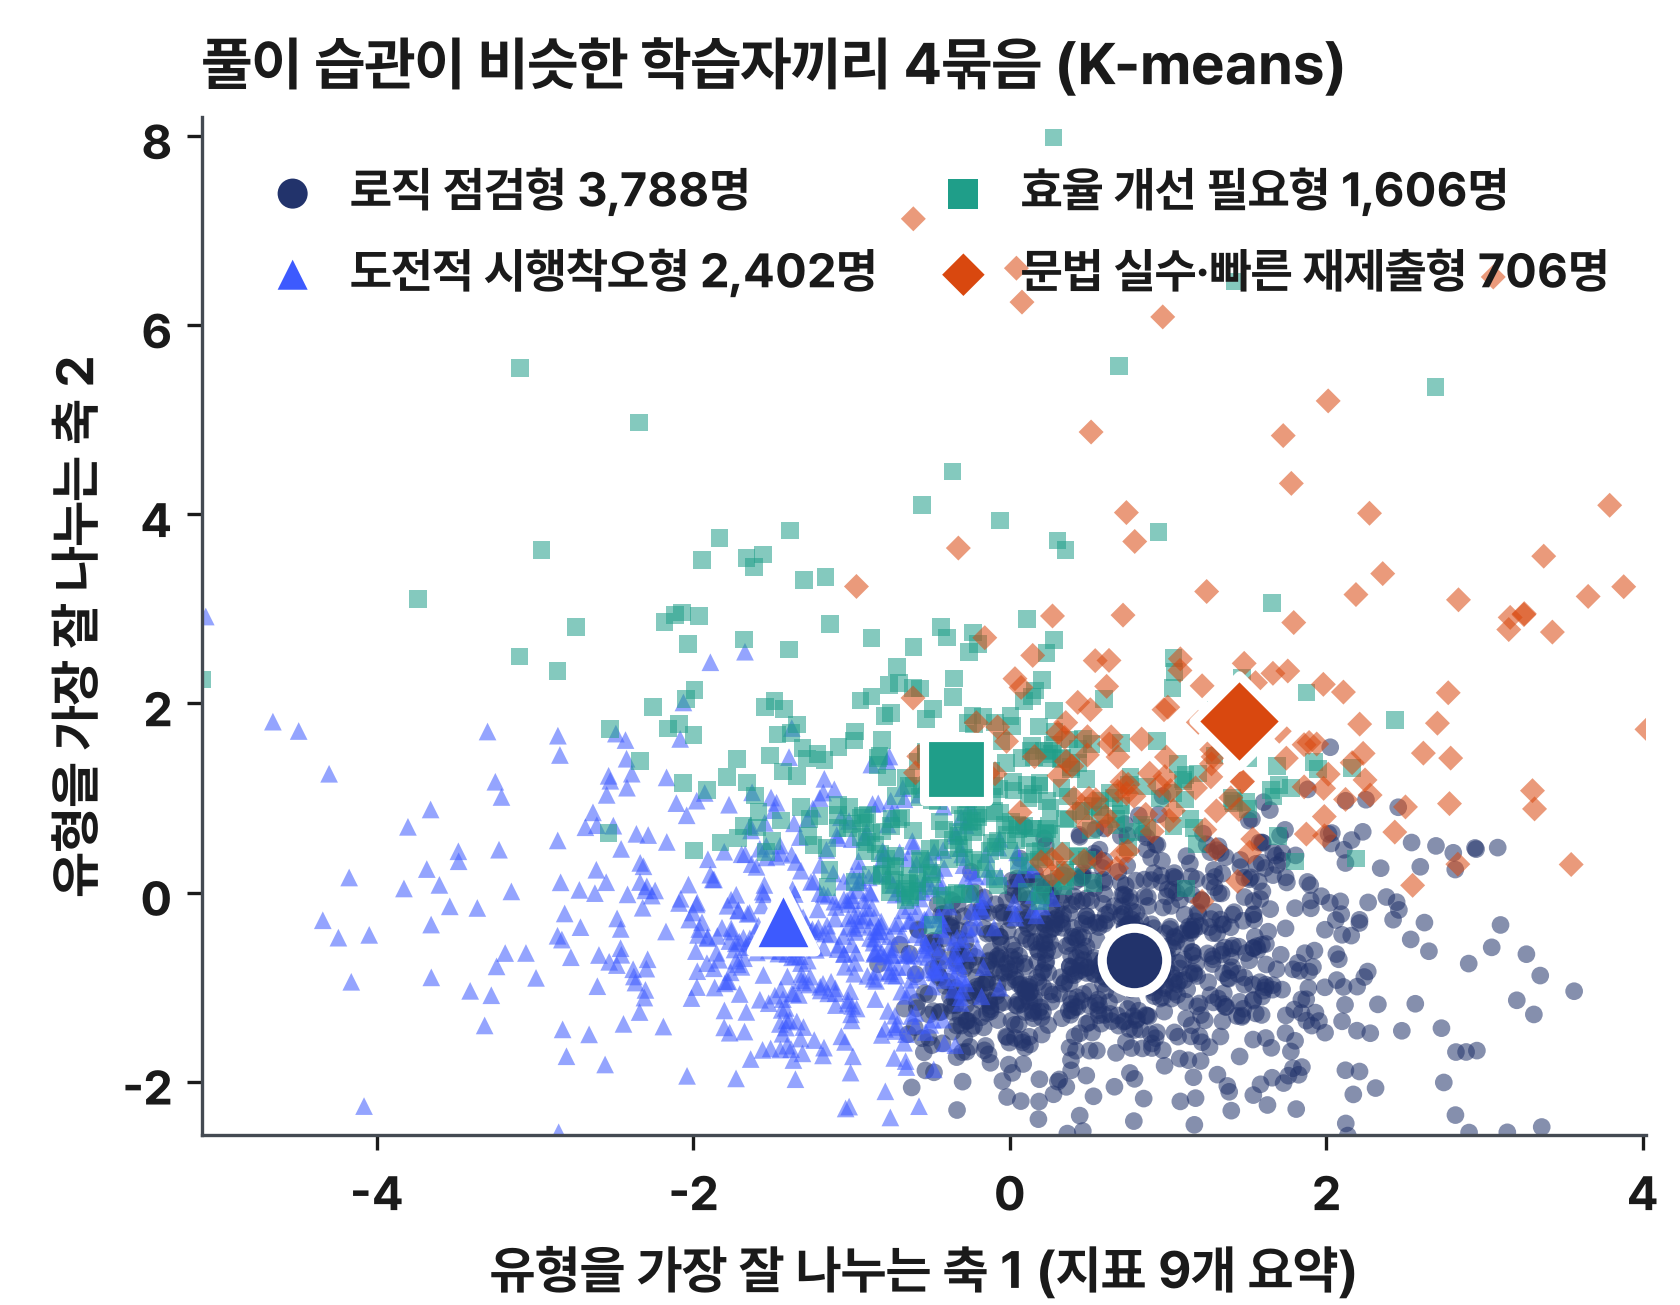
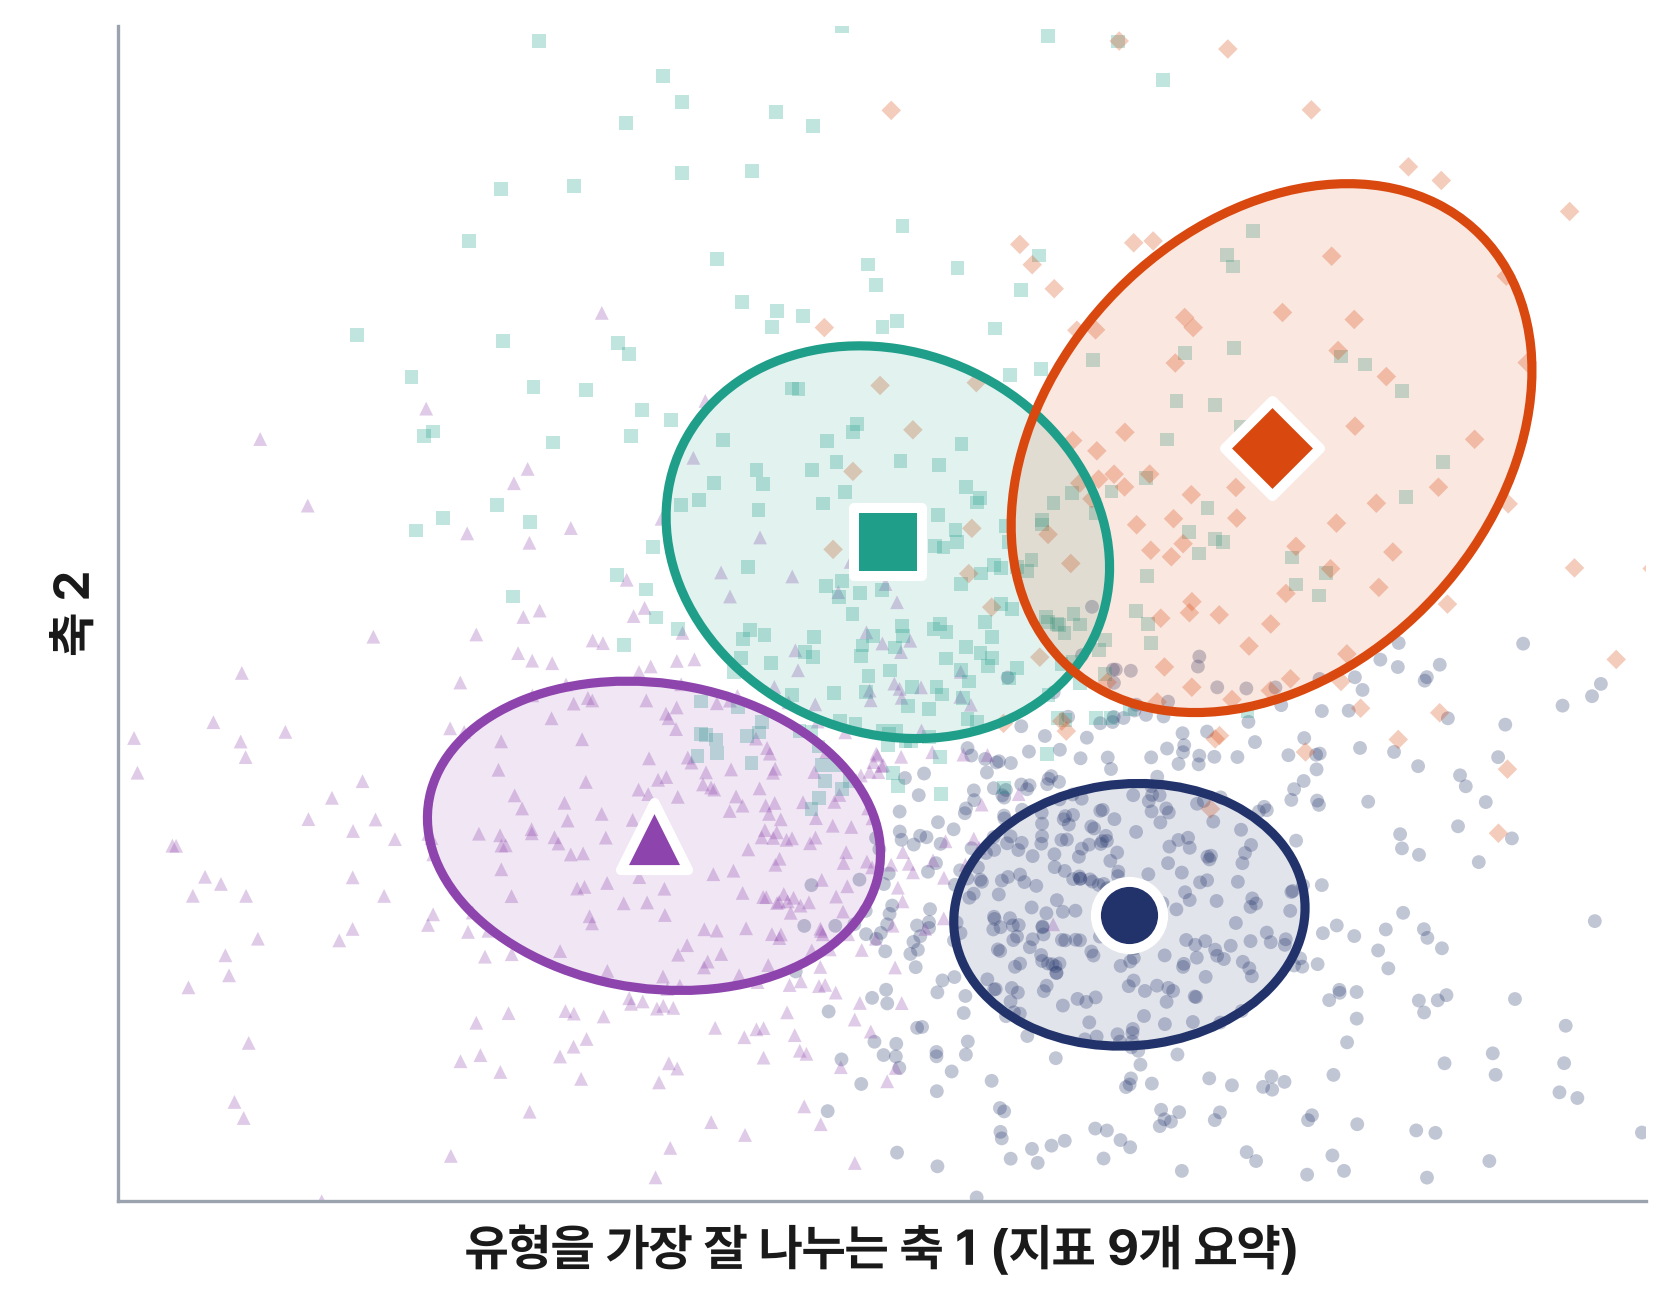
K-means 그래프 깔끔하게: 옅은 점 + 유형별 범위(타원) + 중심, 4색 구분
- 범례·눈금 숫자 빼고(슬라이드 오른쪽 설명과 중복) 학습자 점은 1,200명만 옅게
- 유형마다 학습자가 모인 범위를 표준편차 1배 타원으로 표시, 중심은 큰 도형
- 남색·파랑이 비슷해 도전적 시행착오형을 보라(#8E44AD)로 바꿈
- README 그림 5 설명 수정

diff --git a/make_figures.py b/make_figures.py
@@ -112,23 +112,25 @@ ev, V = np.linalg.eig(np.linalg.solve(Sw, Sb)); V = V[:, np.argsort(-ev.real)[:2
 P = (Z - mu) @ V
 # 가장 가까운 군집 중심 = 저장된 유형 번호인지 확인 (그림이 실제 K-means 결과와 같은지)
 C = np.array(S["학습유형"]["군집_중심"]); assert (((Z[:, None] - C[None]) ** 2).sum(-1).argmin(1) + 1 == y).all()
-DORANGE = "#D9480F"
-sty = {2: ("o", NAVY), 4: ("^", BLUE), 1: ("s", "#1F9E89"), 3: ("D", DORANGE)}   # 로직 점검형 ● · 도전적 시행착오형 ▲ · 효율 개선 필요형 ■ · 문법 실수·빠른 재제출형 ◆
-rng = np.random.default_rng(42); idx = rng.choice(len(X), size=min(2000, len(X)), replace=False)
+DORANGE, PURPLE = "#D9480F", "#8E44AD"
+# 로직 점검형 ● 남색 · 도전적 시행착오형 ▲ 보라 · 효율 개선 필요형 ■ 청록 · 문법 실수·빠른 재제출형 ◆ 주황 (서로 잘 구별되는 4색)
+sty = {2: ("o", NAVY), 4: ("^", PURPLE), 1: ("s", "#1F9E89"), 3: ("D", DORANGE)}
+rng = np.random.default_rng(42); idx = rng.choice(len(X), size=min(1200, len(X)), replace=False)
 fig, ax = plt.subplots(figsize=(5.6, 4.35))
-for k in [2, 4, 1, 3]:
+for k in [2, 4, 1, 3]:                                    # 배경: 학습자 점은 작고 옅게
     m = y[idx] == k; mk, col = sty[k]
-    ax.scatter(P[idx][m, 0], P[idx][m, 1], s=18, marker=mk, alpha=0.55, color=col, edgecolors="none",
-               label=f"{names[str(k - 1)]} {(y == k).sum():,}명")
-for k in range(1, 5):
-    mk, col = sty[k]; ax.scatter(*P[y == k].mean(0), s=240, marker=mk, color=col, edgecolors="white", linewidths=2.2, zorder=5)
-ax.set_xlim(np.percentile(P[:, 0], 0.3), np.percentile(P[:, 0], 99.7))
-lo, hi = np.percentile(P[:, 1], 0.3), np.percentile(P[:, 1], 99.7); ax.set_ylim(lo, hi + (hi - lo) * 0.32)
-ax.set_xlabel("유형을 가장 잘 나누는 축 1 (지표 9개 요약)", fontsize=12.5); ax.set_ylabel("유형을 가장 잘 나누는 축 2", fontsize=12.5)
-ax.tick_params(labelsize=11.5)
-lg = ax.legend(frameon=False, fontsize=11.5, loc="upper left", ncol=2, markerscale=1.7, handletextpad=0.2, columnspacing=0.8)
-for h in lg.legend_handles: h.set_alpha(1)
-ax.set_title("풀이 습관이 비슷한 학습자끼리 4묶음 (K-means)", fontsize=14, loc="left", pad=8)
-fig.subplots_adjust(left=0.12, right=0.98, top=0.91, bottom=0.13); fig.savefig(OUT / "fig5_학습유형_Kmeans.png"); plt.close(fig)
+    ax.scatter(P[idx][m, 0], P[idx][m, 1], s=11, marker=mk, alpha=0.28, color=col, edgecolors="none", zorder=1)
+from matplotlib.patches import Ellipse
+for k in [2, 4, 1, 3]:                                    # 유형마다 학습자 대부분이 모인 범위(표준편차 1배 타원) + 중심
+    mk, col = sty[k]; Q = P[y == k]; c = Q.mean(0); cov = np.cov(Q.T)
+    val, vec = np.linalg.eigh(cov); ang = np.degrees(np.arctan2(vec[1, 1], vec[0, 1]))
+    ax.add_patch(Ellipse(c, 2 * np.sqrt(val[1]), 2 * np.sqrt(val[0]), angle=ang, facecolor=col, alpha=0.13, edgecolor="none", zorder=2))
+    ax.add_patch(Ellipse(c, 2 * np.sqrt(val[1]), 2 * np.sqrt(val[0]), angle=ang, facecolor="none", edgecolor=col, lw=2.2, zorder=3))
+    ax.scatter(*c, s=260, marker=mk, color=col, edgecolors="white", linewidths=2.4, zorder=5)
+ax.set_xlim(np.percentile(P[:, 0], 1), np.percentile(P[:, 0], 99)); ax.set_ylim(np.percentile(P[:, 1], 1), np.percentile(P[:, 1], 99))
+ax.set_xticks([]); ax.set_yticks([])
+for sp in ("left", "bottom"): ax.spines[sp].set_color("#9AA3AE")
+ax.set_xlabel("유형을 가장 잘 나누는 축 1 (지표 9개 요약)", fontsize=12); ax.set_ylabel("축 2", fontsize=12)
+fig.subplots_adjust(left=0.07, right=0.98, top=0.98, bottom=0.08); fig.savefig(OUT / "fig5_학습유형_Kmeans.png"); plt.close(fig)
 check["그림5 유형 인원"] = {names[str(k - 1)]: int((X["유형번호"] == k).sum()) for k in range(1, 5)}
 for k, v in check.items(): print(k, v)

diff --git a/README.md b/README.md
@@ -28,7 +28,7 @@ algofit_figures/
 | fig2 | 공식 실력 점수와 비교한 전체 판정 (합이 전체 인원이라 도넛으로 표시) | 실력 부족 1,134 / 점수만큼 5,213 / 점수 이상 2,155 (합 8,502명) |
 | fig3 | 고른 약한 분야가 다음 기간에도 약했던 비율 | 우리 진단 42.8%, 정답률 낮은 순 43.0%, 무작위 35.1% |
 | fig4 | 다음 기간 정답 예측 정확도(AUC). '이전 → 이후'를 점과 화살표로 표시함 (가로축 0.695~0.768) | 공식 실력 점수 0.722, 평소 실력 점수 0.743, 공식 점수만 0.723, 진단 추가 0.732 |
-| fig5 | 풀이 습관 지표 9개를 '유형이 가장 잘 나뉘는 2개 축'(선형 판별 분석, LDA)으로 요약해 학습자를 점 하나로 표시함. 유형마다 도형을 다르게 함(● ▲ ■ ◆). 큰 도형은 각 묶음의 평균 위치이고, 학습자 2,000명을 무작위로 골라 표시함. 그리기 전에 모든 학습자가 가장 가까운 K-means 중심의 유형과 같은지 확인함(assert) | 로직 점검형 3,788 / 도전적 시행착오형 2,402 / 효율 개선 필요형 1,606 / 문법 실수·빠른 재제출형 706명 |
+| fig5 | 풀이 습관 지표 9개를 '유형이 가장 잘 나뉘는 2개 축'(선형 판별 분석, LDA)으로 요약해 그림. 옅은 점 = 학습자(1,200명 무작위 표시), 타원 = 유형별 학습자가 모인 범위(표준편차 1배), 큰 도형 = 유형 중심. 유형마다 색과 도형이 다름(● 남색 ▲ 보라 ■ 청록 ◆ 주황). 그리기 전에 모든 학습자가 가장 가까운 K-means 중심의 유형과 같은지 확인함(assert) | 로직 점검형 3,788 / 도전적 시행착오형 2,402 / 효율 개선 필요형 1,606 / 문법 실수·빠른 재제출형 706명 |
 
 그래프 크기(인치)를 슬라이드에 넣는 크기와 같게 정했습니다. 그래서 코드에 적은 글자 크기(pt)가 슬라이드에서도 그대로 보입니다.
 
